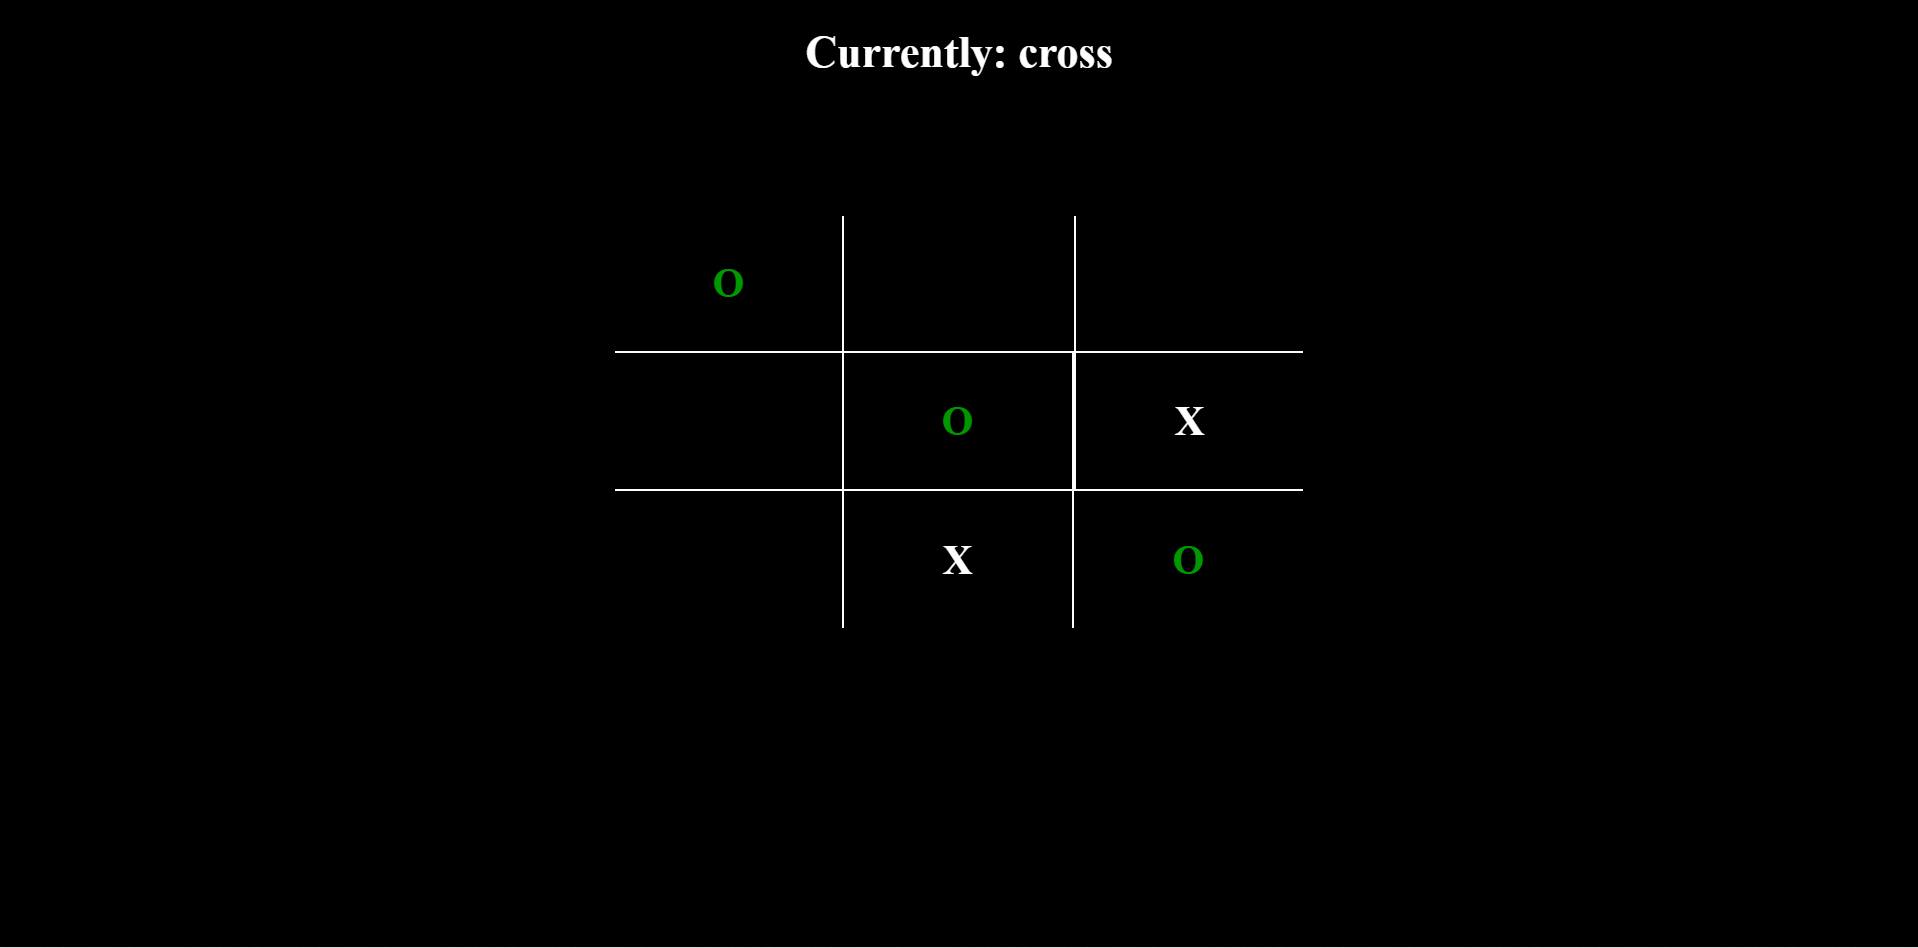
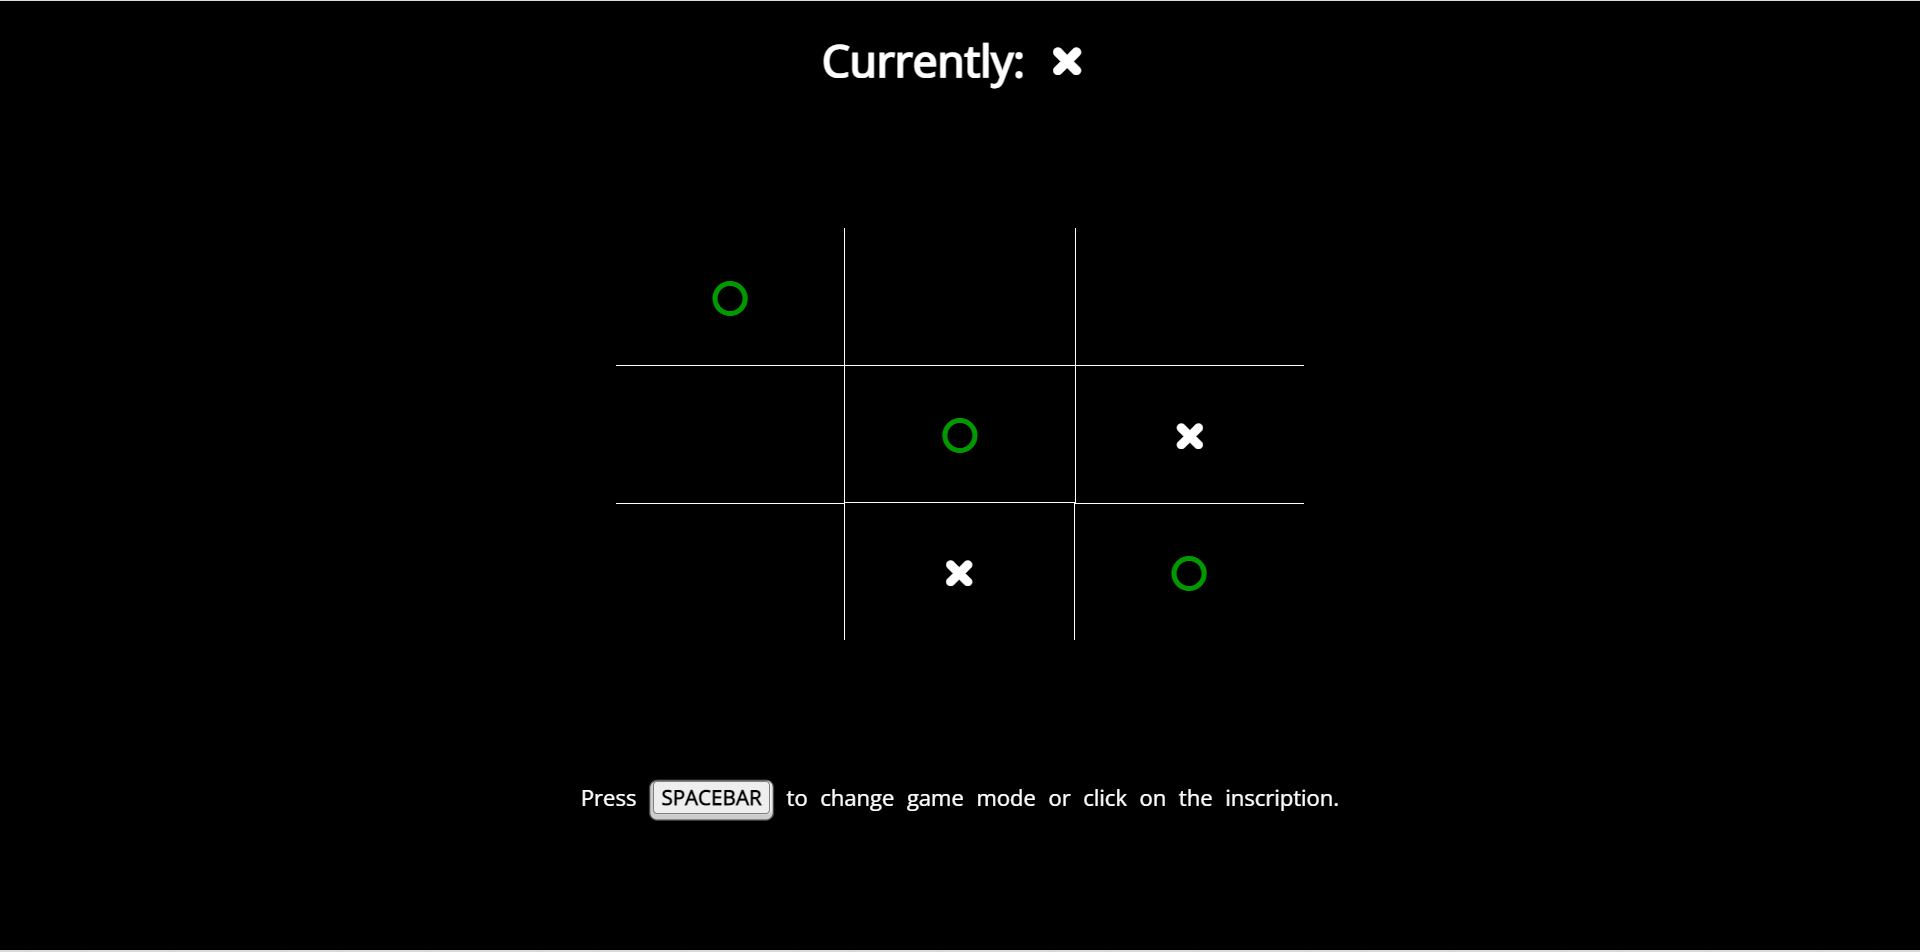
Update readme

diff --git a/README.md b/README.md
@@ -33,16 +33,22 @@
 
 ## Stosowanie
 
-**Widok planszy** To właśnie widzi osoba wchodząca pierwszy raz.
+**Wybór trybu gry** To właśnie widzi osoba wchodząca na strone. Po wyborze rozpoczyna gre a okno znika. Można je spokojnie przywrócić naciskając spację lub klikając na tekst. .
 
 <div style="margin-bottom: 60px; text-align: center">
-  <img src="./src/assets/GeneralView.png" width="800">
+  <img src="./src/assets/ChangeMOdeView.png" width="800">
 </div>
 
 **Wygrana** Jeśli padnie którakolwiek z zwycięskich kombinacji.
 
 <div style="margin-bottom: 60px; text-align: center">
   <img src="./src/assets/WinView.png" width="800">
+</div>
+
+**Gra z botem** Bot szuka swoich okazji by nas pokonać.
+
+<div style="margin-bottom: 60px; text-align: center">
+  <img src="./src/assets/GameWithBotView.png" width="800">
 </div>
 
 **Końcowa animacja** Zależnie od wyniku zobaczymy odpowiednią animację.
@@ -61,7 +67,7 @@ Aby sklonować i uruchomić tę aplikację, potrzebujesz [Git](https://git-scm.c
 
 ```bash
 # Klonowanie repozytorium
-$ git clone https://github.com/Maty2002v2/guess-the-word.git
+$ git clone https://github.com/Maty2002v2/-Tic-Tac-Toe.git
 
 #Wejdź do folderu repozytorium
 $ cd -Tic-Tac-Toe
